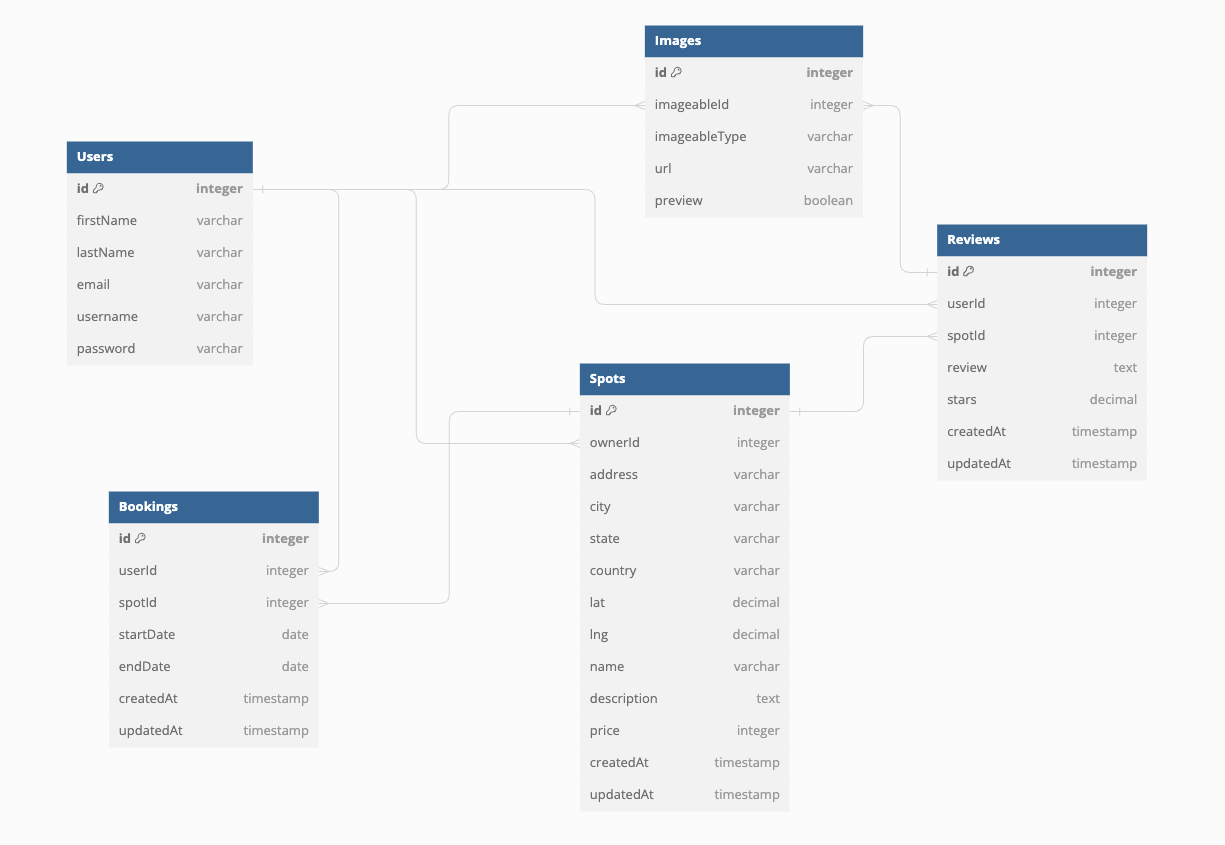
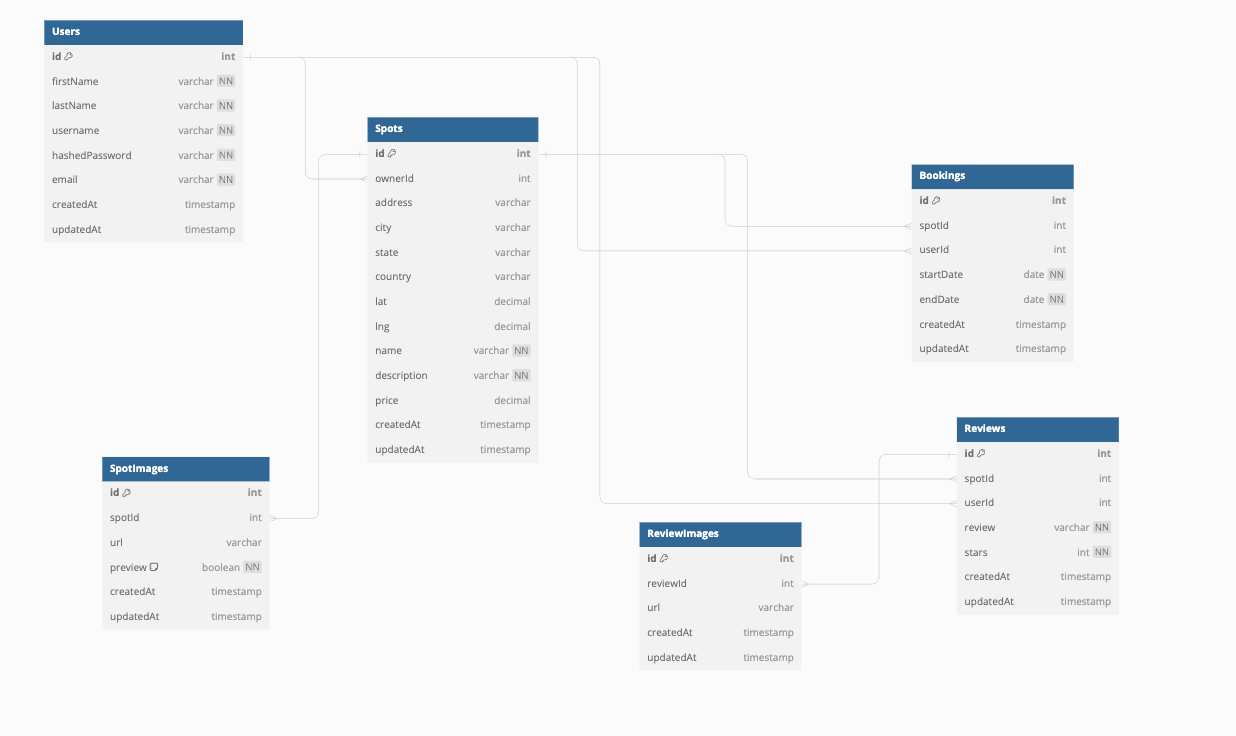
updated schema

diff --git a/images/schema_dbdiagram_io.md b/images/schema_dbdiagram_io.md
@@ -2,55 +2,65 @@
 // Docs: https://dbml.dbdiagram.io/docs
 
 Table Users {
-  id integer [pk, increment]
-  firstName varchar
-  lastName varchar
-  email varchar [unique]
-  username varchar [unique]
-  password varchar
-
+  id int [pk, increment]
+  firstName varchar [not null]
+  lastName varchar [not null]
+  username varchar [not null, unique]
+  hashedPassword varchar [not null]
+  email varchar [not null, unique]
+  createdAt timestamp
+  updatedAt timestamp
 }
 
 Table Spots {
-  id integer [pk, increment]
-  ownerId integer [ref: > Users.id]
+  id int [pk, increment]
+  ownerId int [ref: > Users.id]
   address varchar
   city varchar
   state varchar
   country varchar
   lat decimal
   lng decimal
-  name varchar
-  description text
-  price integer
+  name varchar [not null]
+  description varchar [not null]
+  price decimal
   createdAt timestamp
   updatedAt timestamp
 }
 
-Table Images {
-  id integer [pk, increment]
-  imageableId integer [ref: > Users.id, ref: > Reviews.id]
-  imageableType varchar
-  url varchar
-  preview boolean
-}
-
 Table Reviews {
-  id integer [pk, increment]
-  userId integer [ref: > Users.id]
-  spotId integer [ref: > Spots.id]
-  review text
-  stars decimal
+  id int [pk, increment]
+  spotId int [ref: > Spots.id]
+  userId int [ref: > Users.id]
+  review varchar [not null]
+  stars int [not null]
   createdAt timestamp
   updatedAt timestamp
 }
 
 Table Bookings {
-  id integer [pk, increment]
-  userId integer [ref: > Users.id]
-  spotId integer [ref: > Spots.id]
-  startDate date
-  endDate date
+  id int [pk, increment]
+  spotId int [ref: > Spots.id]
+  userId int [ref: > Users.id]
+  startDate date [not null]
+  endDate date [not null]
+  createdAt timestamp
+  updatedAt timestamp
+}
+
+Table SpotImages {
+  id int [pk, increment]
+  spotId int [ref: > Spots.id]
+  url varchar
+  preview boolean [not null, default: false]
+  createdAt timestamp
+  updatedAt timestamp
+}
+
+Table ReviewImages {
+  id int [pk, increment]
+  reviewId int [ref: > Reviews.id]
+  url varchar
   createdAt timestamp
   updatedAt timestamp
 }
